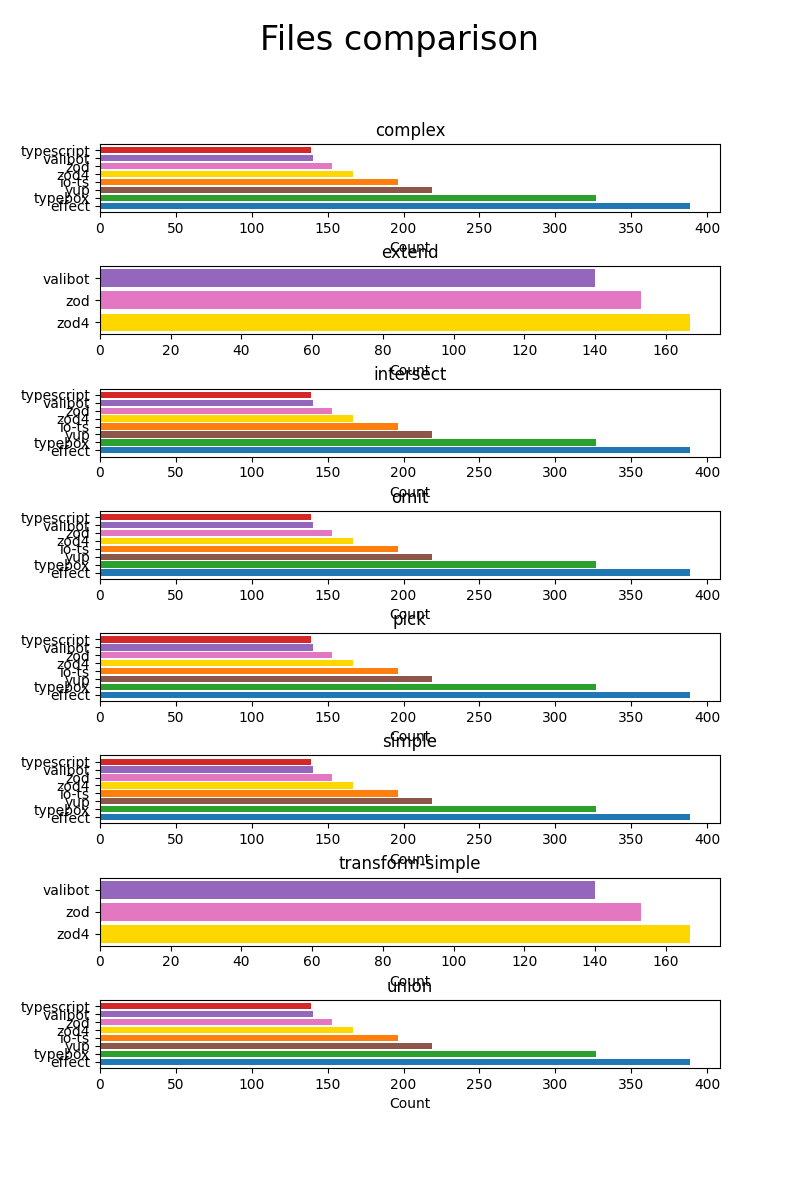
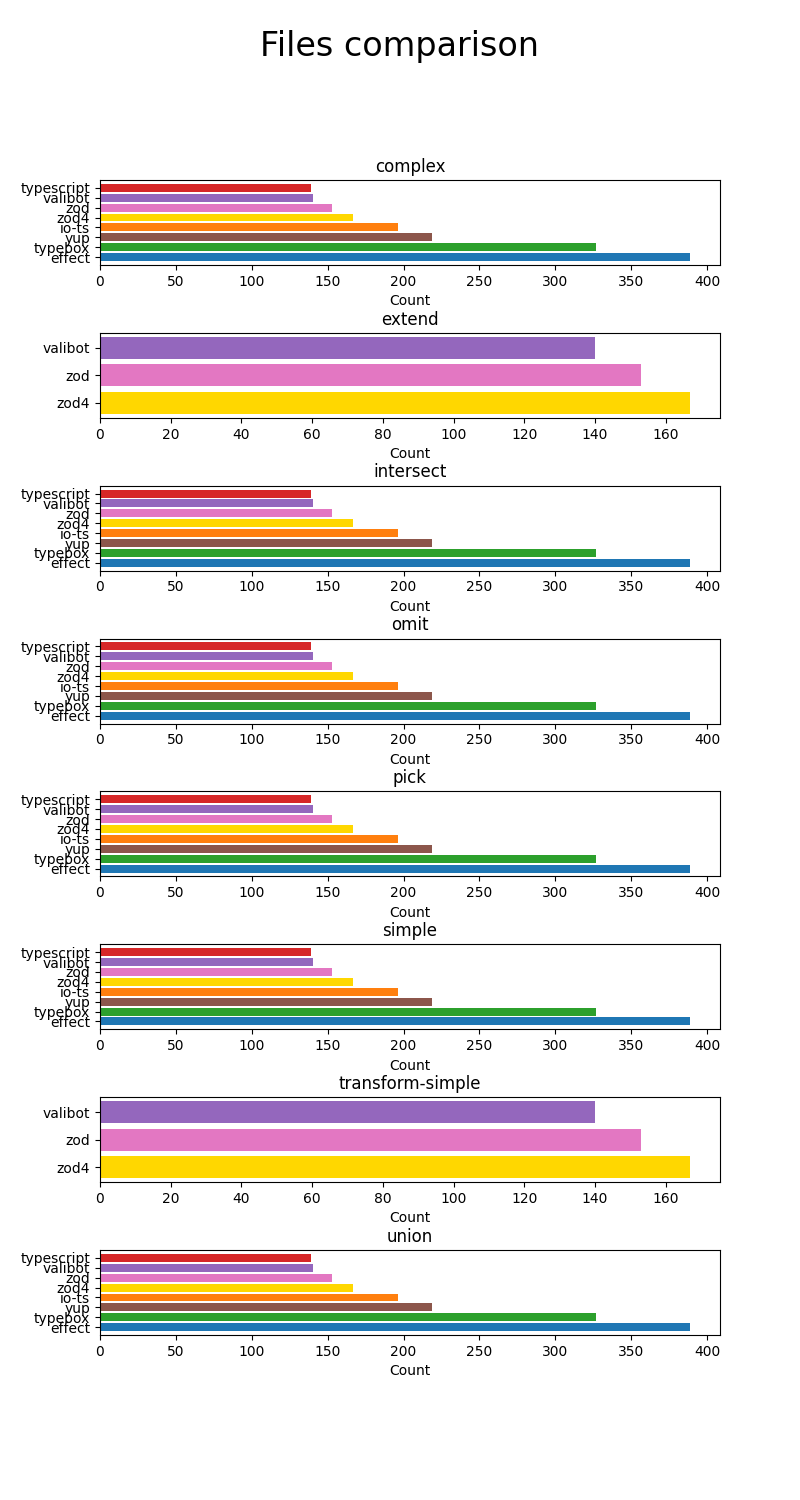
fix: figure size

diff --git a/reports/benchmark_plotter.py b/reports/benchmark_plotter.py
@@ -46,7 +46,7 @@ class BenchmarkPlotter:
         df = df.sort_values(by=[metricName], ascending=False)
         grouped = df.groupby(by=["Name"])
 
-        fig = plt.figure(figsize=(8, 12))
+        fig = plt.figure(figsize=(8, 15))
         fig.suptitle(f"{metricName} comparison", fontsize=24)
 
         for i, (names, group) in enumerate(grouped):
